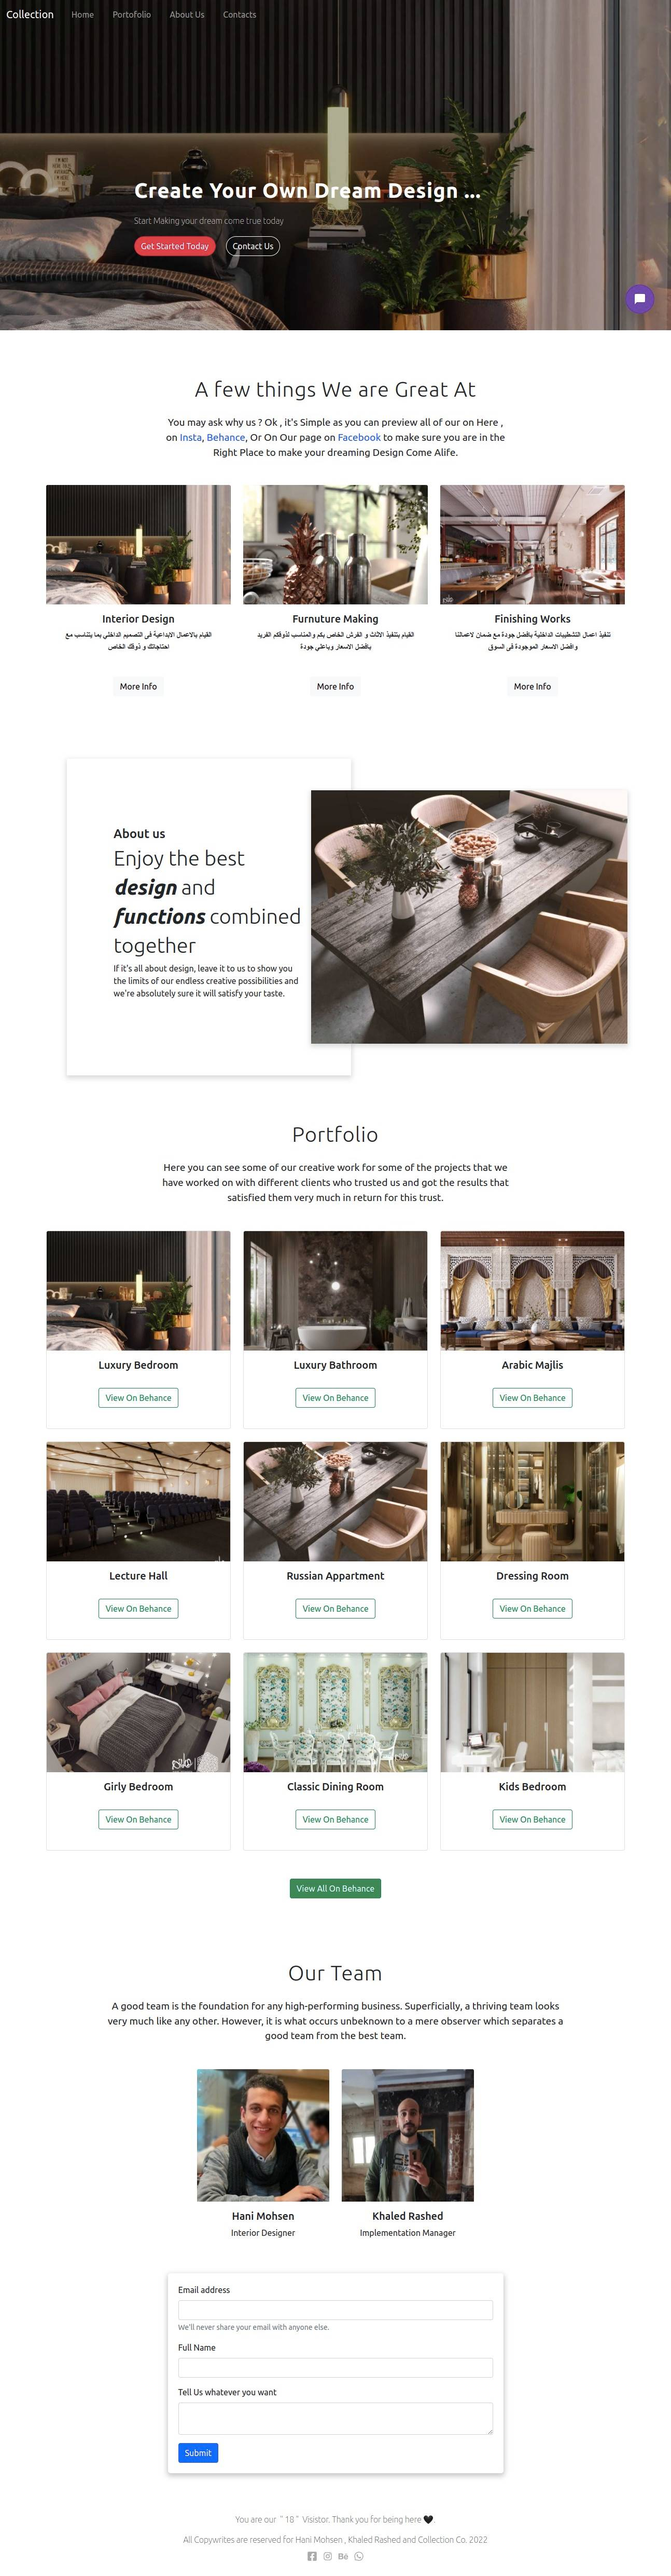
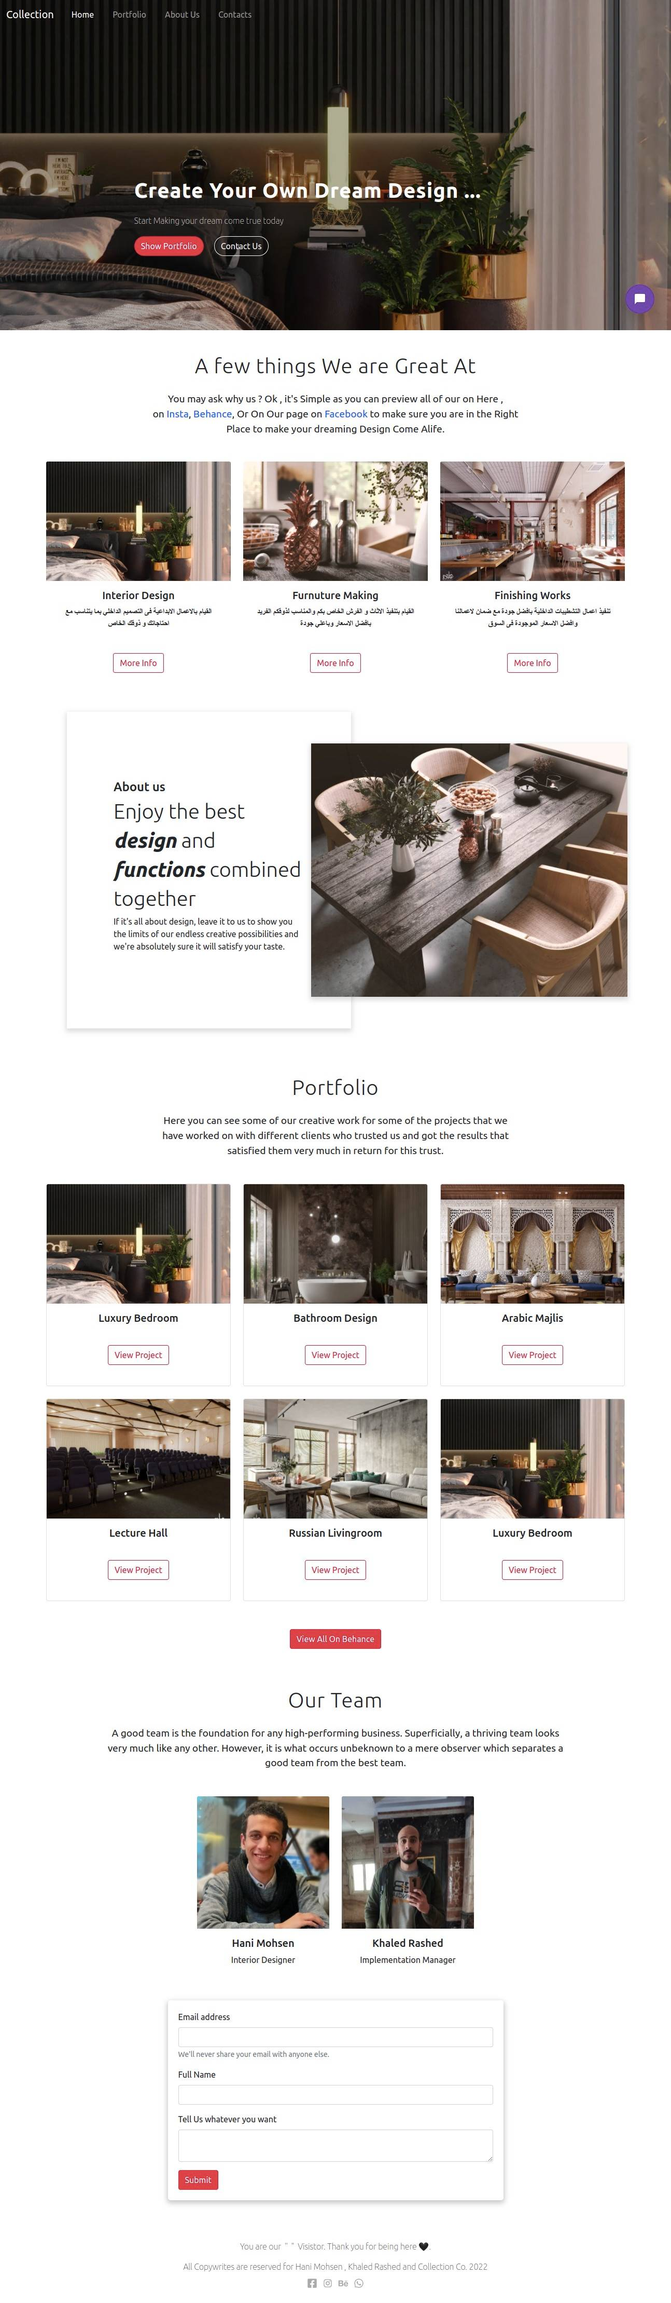
pages

diff --git a/src/pages/PortfolioPage.jsx b/src/pages/PortfolioPage.jsx
@@ -23,7 +23,7 @@ export const PortfolioPage = (props) => {
           </p>
           <div class="row row-cols-1 row-cols-md-2 row-cols-lg-3 g-4 my-4">
             <PortfolioCard
-              link={"lxury"}
+              link={"luxury"}
               img={props.data.luxury[0].img}
               title={props.data.luxury[0].title}
               desc=""

diff --git a/src/components/Portfolio/index.jsx b/src/components/Portfolio/index.jsx
@@ -45,8 +45,8 @@ export const Portfolio = (props) => {
             desc=""
           />
           <PortfolioCard
-            link={'luxury'}
-            img={props.data.luxury[0].img}
+            link={'kitchen'}
+            img={props.data.kitchen[0].img}
             title={props.data.luxury[0].title}
             desc=""
           />

diff --git a/README.md b/README.md
@@ -39,17 +39,23 @@ https://collection-interiors.herokuapp.com/
 1- Main Page 
 ![Main page Image](https://github.com/hanimohsen31/Personal-WebSite/blob/main/src/static/readme/s1.jpg)
 
-2- ChatBot 
+2- Portfolio
+![Main page Image](https://github.com/hanimohsen31/Personal-WebSite/blob/main/src/static/readme/s6.jpg)
+
+3- Privew Project
+![Main page Image](https://github.com/hanimohsen31/Personal-WebSite/blob/main/src/static/readme/s7.jpg)
+
+4- ChatBot 
 
 ![ChatBot page Image](https://github.com/hanimohsen31/Personal-WebSite/blob/main/src/static/readme/s2.jpg)
 
 
-3- Form 
+5- Form 
 
 ![Form page Image](https://github.com/hanimohsen31/Personal-WebSite/blob/main/src/static/readme/s3.jpg)
 
 
-4- Form Submission 
+6- Form Submission 
 
 ![Submission page Image](https://github.com/hanimohsen31/Personal-WebSite/blob/main/src/static/readme/s4.jpg)
 
